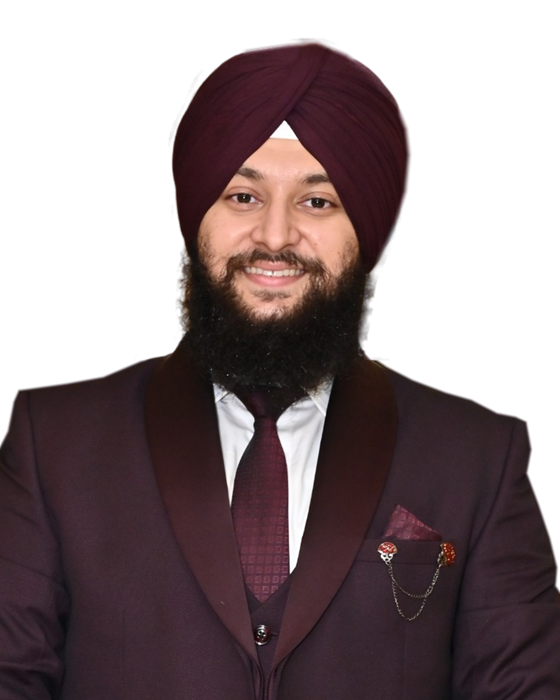
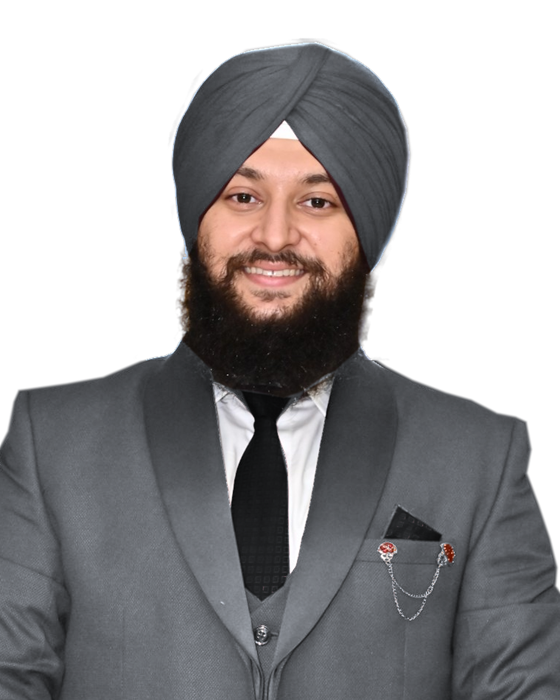
Update portrait outfit and remove the phone letter wave

diff --git a/script.js b/script.js
@@ -695,23 +695,6 @@
     measureChars();
   }
   const wait = (ms) => new Promise((r) => setTimeout(r, ms));
-  // Touch screens have no hovering pointer, so the same letter swell passes through on its own
-  function waveLetters() {
-    const REACH = 8, MS = 2200, chars = flexChars.slice(), start = performance.now();
-    return new Promise((done) => {
-      requestAnimationFrame(function step(now) {
-        const head = ((now - start) / MS) * (chars.length + REACH * 2) - REACH;
-        const running = head < chars.length + REACH;
-        chars.forEach((c, i) => {
-          const k = Math.max(0, 1 - Math.abs(i - head) / REACH);
-          const e = k * k * (3 - 2 * k);
-          c.el.style.fontVariationSettings = running ? `"wght" ${(560 + e * 240).toFixed(0)}, "wdth" ${(100 - e * 22).toFixed(1)}` : '';
-          c.el.style.transform = running && e ? `translateY(${(-e * 6).toFixed(2)}px)` : '';
-        });
-        if (running) requestAnimationFrame(step); else done();
-      });
-    });
-  }
   async function rotateQuotes() {
     headline.appendChild(caret);
     for (let i = 0; ; i = (i + 1) % QUOTES.length) {
@@ -727,9 +710,7 @@
       }
       headline.classList.remove('typing');
       quoteBy.classList.add('on');
-      const hold = wait(6500);
-      if (!finePointer.matches) { await wait(500); await waveLetters(); }
-      await hold;
+      await wait(6500);
       quoteBy.classList.remove('on');
       await wait(450);
       headline.classList.add('typing');
